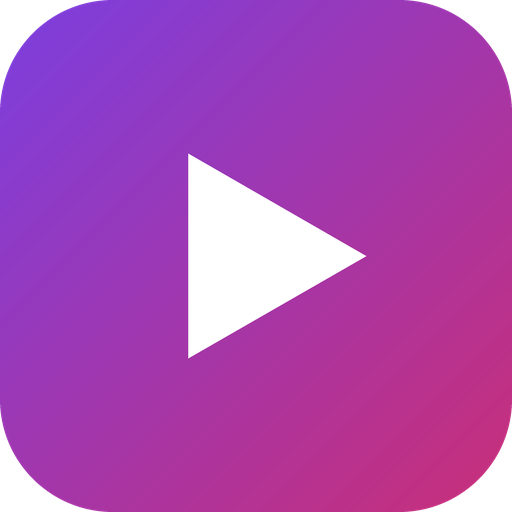
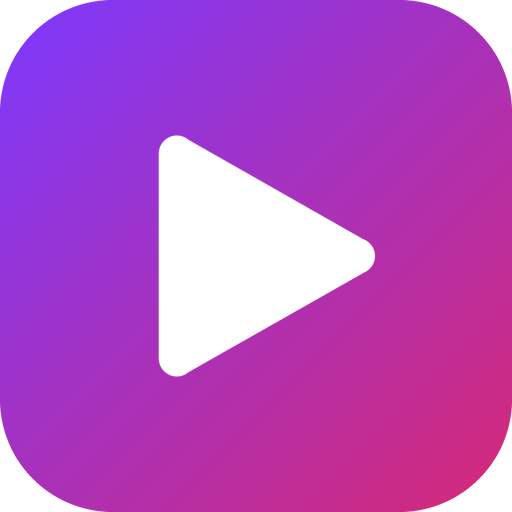
Add files via upload

Changed region(s): [[0.2812, 0.25, 0.75, 0.75], [0.0, 0.0, 0.4062, 0.4062]]

diff --git a/native/java/AdBlocker.java b/native/java/AdBlocker.java
@@ -1,0 +1,108 @@
+package com.kinox.app;
+
+import android.content.Context;
+import android.webkit.WebResourceResponse;
+
+import java.io.BufferedReader;
+import java.io.ByteArrayInputStream;
+import java.io.InputStream;
+import java.io.InputStreamReader;
+import java.util.Arrays;
+import java.util.HashSet;
+import java.util.Locale;
+import java.util.Set;
+
+/**
+ * Motor de bloqueo por dominio (estilo Brave Shields, nivel de red).
+ * Lista = dominios integrados + assets/adblock/hosts.txt (descargado al compilar).
+ */
+final class AdBlocker {
+
+    private AdBlocker() {}
+
+    /** Dominios que NUNCA se bloquean (tu sitio y servicios que necesita). */
+    private static final Set<String> ALLOWED = new HashSet<>(Arrays.asList(
+        "vercel.app", "supabase.co", "supabase.in",
+        "themoviedb.org", "tmdb.org", "gstatic.com", "googleapis.com",
+        "youtube.com", "youtube-nocookie.com", "ytimg.com", "github.com"
+    ));
+
+    /** Respaldo mínimo si no se pudo descargar la lista completa. */
+    private static final String[] BUILTIN = {
+        "doubleclick.net", "googlesyndication.com", "googleadservices.com",
+        "adservice.google.com", "pagead2.googlesyndication.com", "adnxs.com",
+        "taboola.com", "outbrain.com", "popads.net", "popcash.net", "propellerads.com",
+        "propellerclick.com", "exoclick.com", "exosrv.com", "juicyads.com", "trafficjunky.net",
+        "adsterra.com", "highperformanceformat.com", "profitablecpmrate.com",
+        "profitablegatecpm.com", "clickadu.com", "hilltopads.net", "mgid.com",
+        "revcontent.com", "onclickads.net", "onclkds.com", "ad-maven.com", "admaven.com",
+        "a-ads.com", "adcash.com", "bidvertiser.com", "yllix.com", "zeroredirect.com",
+        "tsyndicate.com", "richpush.co", "pushwhy.com", "monetag.com", "acscdn.com",
+        "amazon-adsystem.com", "adform.net", "criteo.com", "rubiconproject.com",
+        "pubmatic.com", "openx.net", "smartadserver.com", "scorecardresearch.com",
+        "hotjar.com", "mc.yandex.ru", "an.yandex.ru", "adriver.ru"
+    };
+
+    private static volatile Set<String> blocked = new HashSet<>(Arrays.asList(BUILTIN));
+
+    static void init(final Context context) {
+        final Context app = context.getApplicationContext();
+        new Thread(() -> {
+            Set<String> set = new HashSet<>(Arrays.asList(BUILTIN));
+            try (InputStream in = app.getAssets().open("adblock/hosts.txt");
+                 BufferedReader br = new BufferedReader(new InputStreamReader(in, "UTF-8"))) {
+                String line;
+                while ((line = br.readLine()) != null) {
+                    int hash = line.indexOf('#');
+                    if (hash >= 0) line = line.substring(0, hash);
+                    line = line.trim();
+                    if (line.isEmpty()) continue;
+                    String[] p = line.split("\\s+");
+                    if (p.length >= 2 && (p[0].equals("0.0.0.0") || p[0].equals("127.0.0.1"))) {
+                        String d = p[1].toLowerCase(Locale.ROOT);
+                        if (d.indexOf('.') > 0 && !d.equals("localhost")) set.add(d);
+                    }
+                }
+            } catch (Exception ignored) {
+                // sin lista descargada: se usa solo la integrada
+            }
+            blocked = set;
+        }, "kinox-adblock-init").start();
+    }
+
+    /** true si el host (o un dominio padre) está en la lista de bloqueo. */
+    static boolean isBlocked(String host) {
+        if (host == null || host.isEmpty()) return false;
+        String h = host.toLowerCase(Locale.ROOT);
+
+        String c = h;
+        while (c.indexOf('.') > 0) {
+            if (ALLOWED.contains(c)) return false;
+            c = c.substring(c.indexOf('.') + 1);
+        }
+
+        Set<String> list = blocked;
+        c = h;
+        while (c.indexOf('.') > 0) {
+            if (list.contains(c)) return true;
+            c = c.substring(c.indexOf('.') + 1);
+        }
+        return false;
+    }
+
+    static WebResourceResponse emptyResponse() {
+        return new WebResourceResponse("text/plain", "UTF-8", new ByteArrayInputStream(new byte[0]));
+    }
+
+    /** Filtrado cosmético: oculta contenedores de anuncios habituales en la página principal. */
+    static final String COSMETIC_JS =
+        "(function(){try{" +
+        "if(window.__kinoxCosmetic)return;window.__kinoxCosmetic=true;" +
+        "var css='ins.adsbygoogle,.adsbygoogle,[id^=\"google_ads\"],[id^=\"div-gpt-ad\"]," +
+        "iframe[src*=\"doubleclick\"],iframe[src*=\"googlesyndication\"],iframe[src*=\"adsterra\"]," +
+        "iframe[src*=\"popads\"],a[href*=\"doubleclick.net\"],[class*=\"ad-banner\"]," +
+        "[class*=\"adsbox\"],[id*=\"ad-container\"],[class*=\"popunder\"]{display:none!important}';" +
+        "var s=document.createElement('style');s.textContent=css;" +
+        "(document.head||document.documentElement).appendChild(s);" +
+        "}catch(e){}})();";
+}

diff --git a/make_icons.py b/make_icons.py
@@ -1,0 +1,98 @@
+from PIL import Image, ImageDraw
+import os, math
+
+OUT = "./resources/android/res"
+C1 = (124, 58, 255)   # violeta
+C2 = (214, 41, 118)   # rosa
+
+def gradient(size):
+    # degradado diagonal (arriba-izq -> abajo-der)
+    img = Image.new("RGB", (size, size))
+    px = img.load()
+    for y in range(size):
+        for x in range(size):
+            t = (x + y) / (2 * (size - 1))
+            px[x, y] = tuple(int(C1[i] + (C2[i] - C1[i]) * t) for i in range(3))
+    return img
+
+def play_layer(size, scale):
+    """Triángulo play blanco con esquinas redondeadas, centrado, transparente."""
+    S = size * 4
+    layer = Image.new("RGBA", (S, S), (0, 0, 0, 0))
+    d = ImageDraw.Draw(layer)
+    h = S * scale
+    w = h * 0.88
+    cx, cy = S / 2 + w * 0.06, S / 2          # compensación óptica
+    pts = [(cx - w / 2, cy - h / 2), (cx - w / 2, cy + h / 2), (cx + w / 2, cy)]
+    d.polygon(pts, fill=(255, 255, 255, 255))
+    # redondear: dilatar con círculos en los vértices + aristas gruesas
+    r = S * 0.035
+    for (x, y) in pts:
+        d.ellipse([x - r, y - r, x + r, y + r], fill=(255, 255, 255, 255))
+    for i in range(3):
+        a, b = pts[i], pts[(i + 1) % 3]
+        d.line([a, b], fill=(255, 255, 255, 255), width=int(r * 2))
+    return layer.resize((size, size), Image.LANCZOS)
+
+def rounded_mask(size, radius_ratio):
+    S = size * 4
+    m = Image.new("L", (S, S), 0)
+    ImageDraw.Draw(m).rounded_rectangle([0, 0, S - 1, S - 1], radius=int(S * radius_ratio), fill=255)
+    return m.resize((size, size), Image.LANCZOS)
+
+def circle_mask(size):
+    S = size * 4
+    m = Image.new("L", (S, S), 0)
+    ImageDraw.Draw(m).ellipse([0, 0, S - 1, S - 1], fill=255)
+    return m.resize((size, size), Image.LANCZOS)
+
+def legacy(size, mask_fn):
+    bg = gradient(size).convert("RGBA")
+    bg.alpha_composite(play_layer(size, 0.40))
+    bg.putalpha(mask_fn(size))
+    return bg
+
+dens_legacy = {"mdpi": 48, "hdpi": 72, "xhdpi": 96, "xxhdpi": 144, "xxxhdpi": 192}
+dens_adapt  = {"mdpi": 108, "hdpi": 162, "xhdpi": 216, "xxhdpi": 324, "xxxhdpi": 432}
+
+for dn, sz in dens_legacy.items():
+    d = f"{OUT}/mipmap-{dn}"; os.makedirs(d, exist_ok=True)
+    legacy(sz, lambda s: rounded_mask(s, 0.22)).save(f"{d}/ic_launcher.png")
+    legacy(sz, circle_mask).save(f"{d}/ic_launcher_round.png")
+
+for dn, sz in dens_adapt.items():
+    d = f"{OUT}/mipmap-{dn}"; os.makedirs(d, exist_ok=True)
+    # zona segura adaptativa = 66% central; el play ocupa ~30% del lienzo
+    play_layer(sz, 0.30).save(f"{d}/ic_launcher_foreground.png")
+    gradient(sz).save(f"{d}/kinox_bg.png")
+
+d = f"{OUT}/mipmap-anydpi-v26"; os.makedirs(d, exist_ok=True)
+xml = '''<?xml version="1.0" encoding="utf-8"?>
+<adaptive-icon xmlns:android="http://schemas.android.com/apk/res/android">
+    <background android:drawable="@mipmap/kinox_bg"/>
+    <foreground android:drawable="@mipmap/ic_launcher_foreground"/>
+</adaptive-icon>
+'''
+for n in ("ic_launcher.xml", "ic_launcher_round.xml"):
+    open(f"{d}/{n}", "w").write(xml)
+
+# Splash: fondo oscuro + logo centrado (sin deformarse en ninguna pantalla)
+dn = f"{OUT}/drawable-nodpi"; os.makedirs(dn, exist_ok=True)
+legacy(288, lambda s: rounded_mask(s, 0.22)).save(f"{dn}/kinox_splash_logo.png")
+os.makedirs(f"{OUT}/drawable", exist_ok=True)
+open(f"{OUT}/drawable/splash.xml", "w").write('''<?xml version="1.0" encoding="utf-8"?>
+<layer-list xmlns:android="http://schemas.android.com/apk/res/android">
+    <item>
+        <shape android:shape="rectangle">
+            <solid android:color="#0A0611"/>
+        </shape>
+    </item>
+    <item>
+        <bitmap android:src="@drawable/kinox_splash_logo" android:gravity="center"/>
+    </item>
+</layer-list>
+''')
+
+# Ícono maestro 512 (Play Store / repo)
+legacy(512, lambda s: rounded_mask(s, 0.22)).save("./assets/icon-512.png")
+print("ok")

diff --git a/native/java/AdBlockWebViewClient.java b/native/java/AdBlockWebViewClient.java
@@ -1,0 +1,52 @@
+package com.kinox.app;
+
+import android.graphics.Bitmap;
+import android.net.Uri;
+import android.webkit.WebResourceRequest;
+import android.webkit.WebResourceResponse;
+import android.webkit.WebView;
+
+import com.getcapacitor.Bridge;
+import com.getcapacitor.BridgeWebViewClient;
+
+/**
+ * WebViewClient de Capacitor + filtro de anuncios.
+ * Cancela cualquier petición (scripts, iframes, imágenes, XHR) hacia dominios de
+ * publicidad/rastreo y las navegaciones hacia ellos (redirecciones de anuncios).
+ */
+public class AdBlockWebViewClient extends BridgeWebViewClient {
+
+    public AdBlockWebViewClient(Bridge bridge) {
+        super(bridge);
+    }
+
+    @Override
+    public WebResourceResponse shouldInterceptRequest(WebView view, WebResourceRequest request) {
+        Uri uri = request.getUrl();
+        if (uri != null && AdBlocker.isBlocked(uri.getHost())) {
+            return AdBlocker.emptyResponse();
+        }
+        return super.shouldInterceptRequest(view, request);
+    }
+
+    @Override
+    public boolean shouldOverrideUrlLoading(WebView view, WebResourceRequest request) {
+        Uri uri = request.getUrl();
+        if (uri != null && AdBlocker.isBlocked(uri.getHost())) {
+            return true; // cancela la navegación
+        }
+        return super.shouldOverrideUrlLoading(view, request);
+    }
+
+    @Override
+    public void onPageStarted(WebView view, String url, Bitmap favicon) {
+        super.onPageStarted(view, url, favicon);
+        view.evaluateJavascript(AdBlocker.COSMETIC_JS, null);
+    }
+
+    @Override
+    public void onPageFinished(WebView view, String url) {
+        super.onPageFinished(view, url);
+        view.evaluateJavascript(AdBlocker.COSMETIC_JS, null);
+    }
+}

diff --git a/native/java/MainActivity.java b/native/java/MainActivity.java
@@ -1,0 +1,30 @@
+package com.kinox.app;
+
+import android.os.Bundle;
+import android.webkit.WebSettings;
+import android.webkit.WebView;
+
+import com.getcapacitor.BridgeActivity;
+
+public class MainActivity extends BridgeActivity {
+
+    @Override
+    public void onCreate(Bundle savedInstanceState) {
+        super.onCreate(savedInstanceState);
+
+        // Carga las listas de bloqueo en segundo plano
+        AdBlocker.init(this);
+
+        WebView webView = getBridge().getWebView();
+
+        // Bloqueo de peticiones (anuncios, rastreadores) y redirecciones
+        webView.setWebViewClient(new AdBlockWebViewClient(getBridge()));
+
+        // Bloqueo de ventanas emergentes (pop-ups / pop-unders)
+        webView.setWebChromeClient(new AdBlockChromeClient(getBridge()));
+
+        WebSettings settings = webView.getSettings();
+        settings.setJavaScriptCanOpenWindowsAutomatically(false);
+        settings.setSupportMultipleWindows(true); // necesario para que onCreateWindow nos avise y lo rechacemos
+    }
+}

diff --git a/native/java/AdBlockChromeClient.java b/native/java/AdBlockChromeClient.java
@@ -1,0 +1,20 @@
+package com.kinox.app;
+
+import android.os.Message;
+import android.webkit.WebView;
+
+import com.getcapacitor.Bridge;
+import com.getcapacitor.BridgeWebChromeClient;
+
+/** Rechaza todas las ventanas emergentes que abren las páginas (típico de anuncios). */
+public class AdBlockChromeClient extends BridgeWebChromeClient {
+
+    public AdBlockChromeClient(Bridge bridge) {
+        super(bridge);
+    }
+
+    @Override
+    public boolean onCreateWindow(WebView view, boolean isDialog, boolean isUserGesture, Message resultMsg) {
+        return false; // no se crea la ventana
+    }
+}

diff --git a/LEEME.md b/LEEME.md
@@ -1,22 +1,30 @@
-# MovieZone APK
+# Kinox APK
 
-Envoltorio Android (Capacitor) que abre tu sitio desplegado en Vercel.
+App Android (Capacitor) que abre tu sitio desplegado en Vercel, con ícono propio y
+bloqueo de anuncios nativo.
 
 ## Compilar sin instalar nada (GitHub Actions)
-1. Crea un repo en GitHub y sube TODO el contenido de esta carpeta (incluida `.github`).
-2. Pestaña **Actions → Build APK → Run workflow**.
-3. Al terminar (~5 min), descarga el artefacto **MovieZone-apk** → `app-debug.apk`.
+1. Sube TODO el contenido de esta carpeta a tu repo (incluidas `.github`, `native` y `resources`).
+2. Pestaña **Actions → Build Kinox APK → Run workflow**.
+3. Al terminar (~5 min), descarga el artefacto **Kinox-Android-APK** → `Kinox.apk`.
 4. Instálalo en el móvil (permite "orígenes desconocidos").
 
-## Compilar en tu PC (Node 20 + JDK 17 + Android SDK)
-```
-npm install
-npx cap add android
-npx cap sync android
-cd android && ./gradlew assembleDebug
-```
-APK en `android/app/build/outputs/apk/debug/app-debug.apk`.
+## Qué incluye
+- **Nombre:** Kinox (`com.kinox.app`).
+- **Ícono:** `resources/android/res/` (adaptativo + redondo + pantalla de arranque).
+  El maestro está en `assets/icon-512.png`. Se genera con `make_icons.py`.
+- **Bloqueo de anuncios:** `native/java/`
+  - Bloquea peticiones a dominios de publicidad/rastreo (scripts, iframes, imágenes).
+  - Cancela redirecciones hacia dominios de anuncios.
+  - Rechaza ventanas emergentes (pop-ups).
+  - Oculta contenedores de anuncios comunes en la página principal.
+  - La lista de dominios se descarga al compilar (StevenBlack/hosts) y hay una lista mínima integrada de respaldo.
+
+## Límites del bloqueador
+- No es el Brave Browser: usa el mismo enfoque (filtrar en la capa de red del WebView), pero no su motor `adblock-rust`.
+- No puede ver dentro de iframes de otros dominios (reproductores), así que no oculta anuncios que el propio reproductor dibuja con su JS. Sí bloquea sus peticiones a redes publicitarias.
+- Si algo del sitio deja de funcionar, añade su dominio a `ALLOWED` en `native/java/AdBlocker.java`.
 
 ## Importante
-- La URL de tu sitio está en `capacitor.config.json` (`server.url`). Cámbiala por tu dominio real de Vercel.
-- Necesita el sitio desplegado, porque usa el proxy `/api/tmdb` y Supabase.
+- La URL de tu sitio está en `capacitor.config.json` (`server.url`).
+- El sitio debe estar desplegado (usa el proxy `/api/tmdb` y Supabase).
